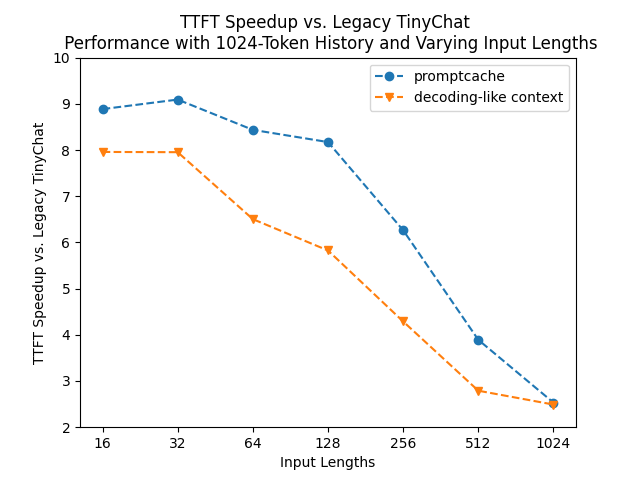
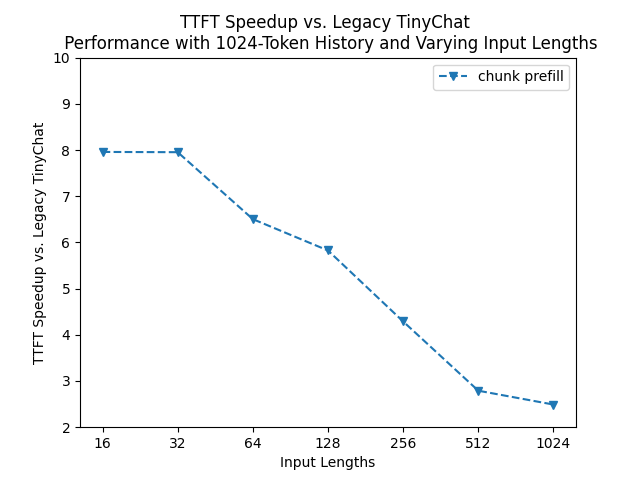
renew tinychat readme

diff --git a/tinychat/README.md b/tinychat/README.md
@@ -149,7 +149,7 @@ We have optimized the speed of the context stage and updated our code with sever
 
 Under certain conditions, these improvements can result in up to an 8x speedup in TTFT(Time To the First Token) with minor accuracy loss comparing with the old version of TinyChat. We conducted experiments on the Orin GPU, and the detailed results are provided below. ('promptcache' means restricting attention calculations to the newly input tokens during the context stage for multi-turn conversations, which can induce serious forgetting problem.)
 
-![](./figures/TTFT_Speedup_flash.png)
+![](./figures/TTFT_Speedup_flash&only_last_logits.png)
 ![](./figures/TTFT_Speedup_constant_input.png)
 ![](./figures/TTFT_Speedup_constant_history.png)
 
@@ -308,7 +308,7 @@ python vlm_demo_new.py \
     --vis-image #Optional
 ```
 
-to run the terminal demo directly.
+to run the terminal demo directly. You can also use``` --flash --chunk_prefill``` to accelerate.
 
 Note: if you enable `--vis-image` mode, TinyChat will print input images directly in your terminal. You may need to install [termvisage](https://github.com/AnonymouX47/termvisage) to enable this mode. A [terminal emulator](https://github.com/AnonymouX47/termvisage?tab=readme-ov-file#requirements) is also required.
 
